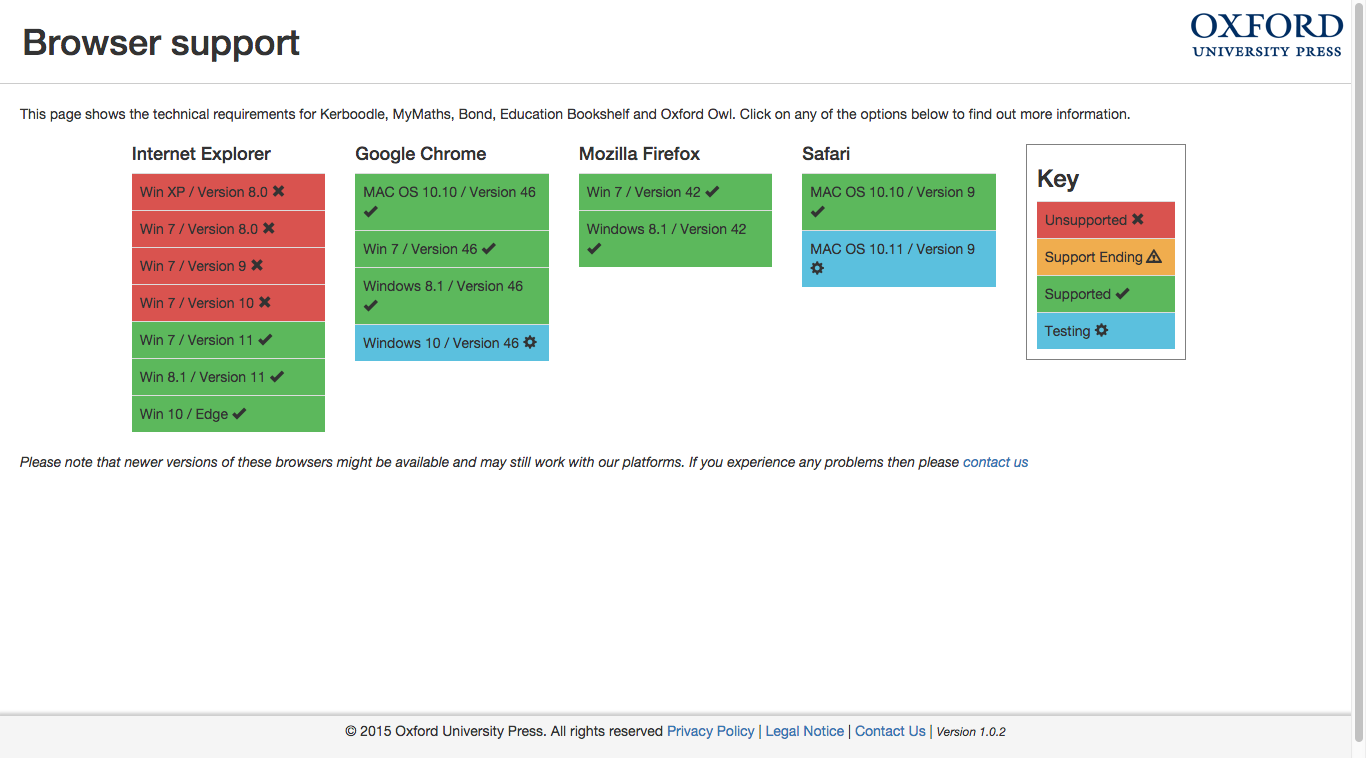
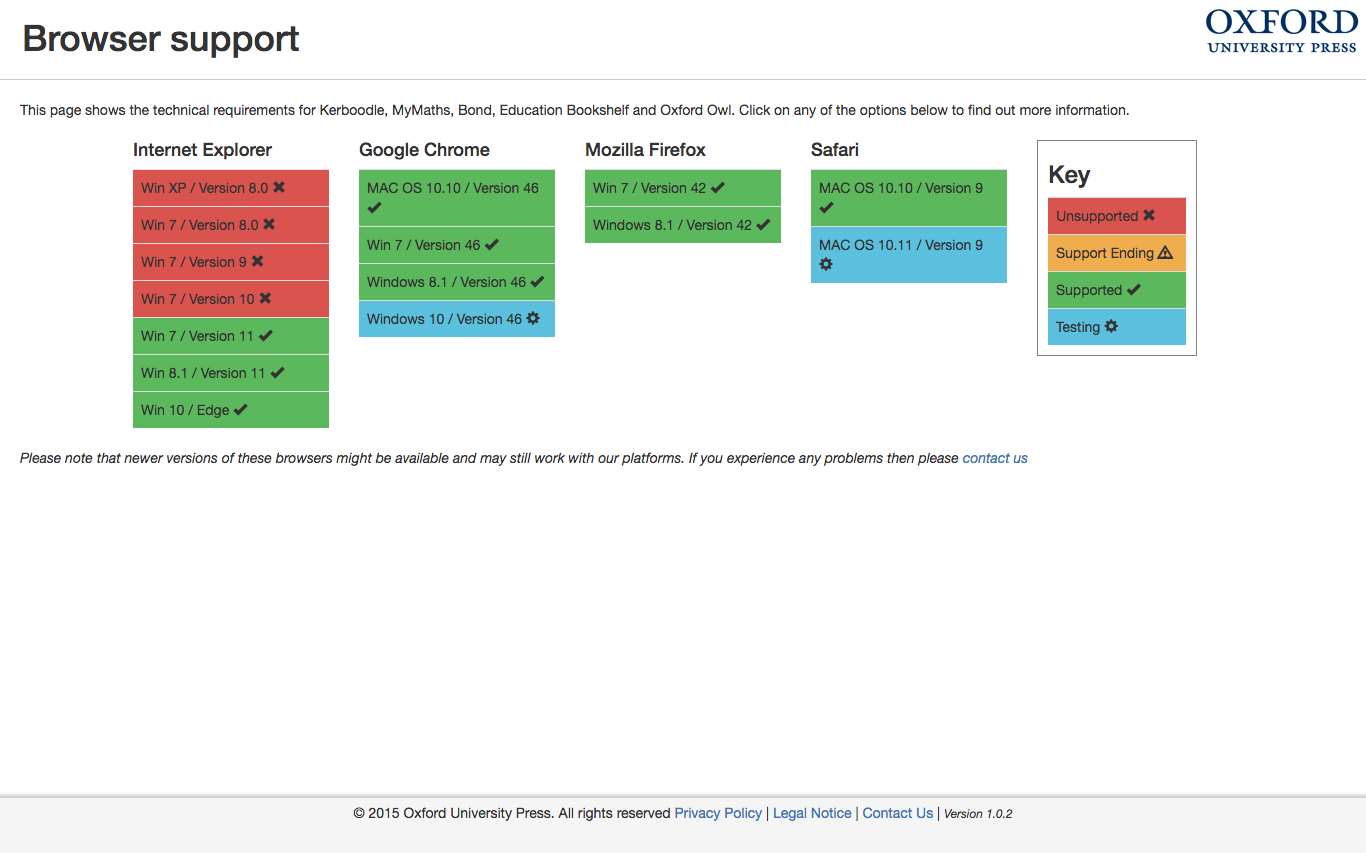
indented the main content, work on responsive header

diff --git a/_includes/header.html b/_includes/header.html
@@ -36,80 +36,86 @@
             .cls-6 {
               fill: #e6e7e8;
             }
+
           </style>
         </defs>
         <title>logo</title>
-        <path class="cls-1" d="M289.39,315.17" transform="translate(0 -0.02)" />
-        <path class="cls-1" d="M289.39,315.17" transform="translate(0 -0.02)" />
-        <path class="cls-1" d="M289.39,315.17" transform="translate(0 -0.02)" />
-        <path class="cls-1" d="M289.39,315.17" transform="translate(0 -0.02)" />
-        <path class="cls-1" d="M289.39,315.17" transform="translate(0 -0.02)" />
-        <path class="cls-1" d="M289.39,315.17" transform="translate(0 -0.02)" />
-        <path class="cls-2" d="M60.67,84.71" transform="translate(0 -0.02)" />
-        <path class="cls-1" d="M60.67,84.71" transform="translate(0 -0.02)" />
-        <path class="cls-2" d="M60.67,84.71" transform="translate(0 -0.02)" />
-        <path class="cls-1" d="M60.67,84.71" transform="translate(0 -0.02)" />
-        <path class="cls-2" d="M60.67,84.71" transform="translate(0 -0.02)" />
-        <path class="cls-1" d="M60.67,84.71" transform="translate(0 -0.02)" />
-        <path class="cls-2" d="M60.67,84.71" transform="translate(0 -0.02)" />
-        <path class="cls-1" d="M60.67,84.71" transform="translate(0 -0.02)" />
-        <path class="cls-2" d="M60.67,84.71" transform="translate(0 -0.02)" />
-        <path class="cls-1" d="M60.67,84.71" transform="translate(0 -0.02)" />
-        <path class="cls-2" d="M60.67,84.71" transform="translate(0 -0.02)" />
-        <path class="cls-1" d="M60.67,84.71" transform="translate(0 -0.02)" />
-        <path class="cls-1" d="M315.18,289.57" transform="translate(0 -0.02)" />
-        <path class="cls-1" d="M315.18,289.57" transform="translate(0 -0.02)" />
-        <path class="cls-1" d="M315.18,289.57" transform="translate(0 -0.02)" />
-        <path class="cls-1" d="M315.18,289.57" transform="translate(0 -0.02)" />
-        <path class="cls-1" d="M315.18,289.57" transform="translate(0 -0.02)" />
-        <path class="cls-1" d="M315.18,289.57" transform="translate(0 -0.02)" />
-        <path class="cls-2" d="M89.34,62.05" transform="translate(0 -0.02)" />
-        <path class="cls-1" d="M89.34,62.05" transform="translate(0 -0.02)" />
-        <path class="cls-2" d="M89.34,62.05" transform="translate(0 -0.02)" />
-        <path class="cls-1" d="M89.34,62.05" transform="translate(0 -0.02)" />
-        <path class="cls-2" d="M89.34,62.05" transform="translate(0 -0.02)" />
-        <path class="cls-1" d="M89.34,62.05" transform="translate(0 -0.02)" />
-        <path class="cls-2" d="M89.34,62.05" transform="translate(0 -0.02)" />
-        <path class="cls-1" d="M89.34,62.05" transform="translate(0 -0.02)" />
-        <path class="cls-2" d="M89.34,62.05" transform="translate(0 -0.02)" />
-        <path class="cls-1" d="M89.34,62.05" transform="translate(0 -0.02)" />
-        <path class="cls-2" d="M89.34,62.05" transform="translate(0 -0.02)" />
-        <path class="cls-1" d="M89.34,62.05" transform="translate(0 -0.02)" />
-        <polygon class="cls-3" points="2.44 185.92 1.74 138.44 47.2 183.14 1.72 229.74 2.44 185.92" />
-        <rect class="cls-4" x="15.01" y="105.91" width="65.19" height="63.91" transform="translate(-83.3 73.52) rotate(-44.78)" />
-        <rect class="cls-4" x="61.28" y="59.99" width="65.19" height="63.91" transform="translate(-37.52 92.79) rotate(-44.78)" />
-        <rect class="cls-4" x="107.75" y="14.52" width="63.91" height="63.91" transform="translate(7.8 111.87) rotate(-44.78)" />
-        <polygon class="cls-3" points="139.87 1.53 185.52 1.53 231.16 0.83 184.89 46.83 139.87 1.53" />
-        <rect class="cls-5" x="14.21" y="197.02" width="65.19" height="65.19" transform="translate(-148.15 99.58) rotate(-44.78)" />
-        <rect class="cls-6" x="60.48" y="151.09" width="65.19" height="65.19" transform="translate(-102.38 118.84) rotate(-44.78)" />
-        <rect class="cls-6" x="106.76" y="105.17" width="65.19" height="65.19" transform="translate(-56.6 138.12) rotate(-44.78)" />
-        <rect class="cls-6" x="153.22" y="59.7" width="63.91" height="65.19" transform="translate(-11.28 157.2) rotate(-44.78)" />
-        <rect class="cls-5" x="198.4" y="14.23" width="65.19" height="65.19" transform="translate(34.05 176.28) rotate(-44.78)" />
-        <rect class="cls-5" x="60.13" y="243.29" width="65.19" height="65.19" transform="translate(-167.42 145.36) rotate(-44.78)" />
-        <rect class="cls-6" x="106.4" y="197.37" width="65.19" height="65.19" transform="translate(-121.65 164.62) rotate(-44.78)" />
-        <rect class="cls-6" x="152.68" y="151.44" width="65.19" height="65.19" transform="translate(-75.87 183.89) rotate(-44.78)" />
-        <rect class="cls-6" x="199.14" y="105.97" width="63.91" height="65.19" transform="translate(-30.55 202.98) rotate(-44.78)" />
-        <rect class="cls-5" x="244.33" y="60.5" width="65.19" height="65.19" transform="translate(14.78 222.06) rotate(-44.78)" />
-        <rect class="cls-5" x="106.05" y="289.57" width="65.19" height="65.19" transform="translate(-186.7 191.13) rotate(-44.78)" />
-        <rect class="cls-6" x="152.33" y="243.65" width="65.19" height="65.19" transform="translate(-140.92 210.4) rotate(-44.78)" />
-        <rect class="cls-6" x="198.61" y="197.72" width="65.19" height="65.19" transform="translate(-95.14 229.67) rotate(-44.78)" />
-        <rect class="cls-6" x="245.06" y="152.25" width="63.91" height="65.19" transform="translate(-49.82 248.75) rotate(-44.78)" />
-        <rect class="cls-5" x="290.25" y="106.77" width="65.19" height="65.19" transform="translate(-4.49 267.83) rotate(-44.78)" />
-        <polygon class="cls-3" points="138.47 368.2 184.75 322.27 230.67 368.53 184.57 368.53 138.47 368.2" />
-        <rect class="cls-4" x="198.25" y="289.92" width="65.19" height="65.19" transform="translate(-160.19 256.18) rotate(-44.78)" />
-        <rect class="cls-4" x="244.53" y="244" width="65.19" height="65.19" transform="translate(-114.41 275.45) rotate(-44.78)" />
-        <rect class="cls-4" x="290.99" y="198.53" width="63.91" height="65.19" transform="translate(-69.09 294.53) rotate(-44.78)" />
-        <polygon class="cls-3" points="322.9 185.43 369.41 139.51 369.41 185.6 368.94 231.7 322.9 185.43" />
+        <path class="cls-1" d="M289.39,315.17" transform="translate(0 -0.02)"/>
+        <path class="cls-1" d="M289.39,315.17" transform="translate(0 -0.02)"/>
+        <path class="cls-1" d="M289.39,315.17" transform="translate(0 -0.02)"/>
+        <path class="cls-1" d="M289.39,315.17" transform="translate(0 -0.02)"/>
+        <path class="cls-1" d="M289.39,315.17" transform="translate(0 -0.02)"/>
+        <path class="cls-1" d="M289.39,315.17" transform="translate(0 -0.02)"/>
+        <path class="cls-2" d="M60.67,84.71" transform="translate(0 -0.02)"/>
+        <path class="cls-1" d="M60.67,84.71" transform="translate(0 -0.02)"/>
+        <path class="cls-2" d="M60.67,84.71" transform="translate(0 -0.02)"/>
+        <path class="cls-1" d="M60.67,84.71" transform="translate(0 -0.02)"/>
+        <path class="cls-2" d="M60.67,84.71" transform="translate(0 -0.02)"/>
+        <path class="cls-1" d="M60.67,84.71" transform="translate(0 -0.02)"/>
+        <path class="cls-2" d="M60.67,84.71" transform="translate(0 -0.02)"/>
+        <path class="cls-1" d="M60.67,84.71" transform="translate(0 -0.02)"/>
+        <path class="cls-2" d="M60.67,84.71" transform="translate(0 -0.02)"/>
+        <path class="cls-1" d="M60.67,84.71" transform="translate(0 -0.02)"/>
+        <path class="cls-2" d="M60.67,84.71" transform="translate(0 -0.02)"/>
+        <path class="cls-1" d="M60.67,84.71" transform="translate(0 -0.02)"/>
+        <path class="cls-1" d="M315.18,289.57" transform="translate(0 -0.02)"/>
+        <path class="cls-1" d="M315.18,289.57" transform="translate(0 -0.02)"/>
+        <path class="cls-1" d="M315.18,289.57" transform="translate(0 -0.02)"/>
+        <path class="cls-1" d="M315.18,289.57" transform="translate(0 -0.02)"/>
+        <path class="cls-1" d="M315.18,289.57" transform="translate(0 -0.02)"/>
+        <path class="cls-1" d="M315.18,289.57" transform="translate(0 -0.02)"/>
+        <path class="cls-2" d="M89.34,62.05" transform="translate(0 -0.02)"/>
+        <path class="cls-1" d="M89.34,62.05" transform="translate(0 -0.02)"/>
+        <path class="cls-2" d="M89.34,62.05" transform="translate(0 -0.02)"/>
+        <path class="cls-1" d="M89.34,62.05" transform="translate(0 -0.02)"/>
+        <path class="cls-2" d="M89.34,62.05" transform="translate(0 -0.02)"/>
+        <path class="cls-1" d="M89.34,62.05" transform="translate(0 -0.02)"/>
+        <path class="cls-2" d="M89.34,62.05" transform="translate(0 -0.02)"/>
+        <path class="cls-1" d="M89.34,62.05" transform="translate(0 -0.02)"/>
+        <path class="cls-2" d="M89.34,62.05" transform="translate(0 -0.02)"/>
+        <path class="cls-1" d="M89.34,62.05" transform="translate(0 -0.02)"/>
+        <path class="cls-2" d="M89.34,62.05" transform="translate(0 -0.02)"/>
+        <path class="cls-1" d="M89.34,62.05" transform="translate(0 -0.02)"/>
+        <polygon class="cls-3" points="2.44 185.92 1.74 138.44 47.2 183.14 1.72 229.74 2.44 185.92"/>
+        <rect class="cls-4" x="15.01" y="105.91" width="65.19" height="63.91" transform="translate(-83.3 73.52) rotate(-44.78)"/>
+        <rect class="cls-4" x="61.28" y="59.99" width="65.19" height="63.91" transform="translate(-37.52 92.79) rotate(-44.78)"/>
+        <rect class="cls-4" x="107.75" y="14.52" width="63.91" height="63.91" transform="translate(7.8 111.87) rotate(-44.78)"/>
+        <polygon class="cls-3" points="139.87 1.53 185.52 1.53 231.16 0.83 184.89 46.83 139.87 1.53"/>
+        <rect class="cls-5" x="14.21" y="197.02" width="65.19" height="65.19" transform="translate(-148.15 99.58) rotate(-44.78)"/>
+        <rect class="cls-6" x="60.48" y="151.09" width="65.19" height="65.19" transform="translate(-102.38 118.84) rotate(-44.78)"/>
+        <rect class="cls-6" x="106.76" y="105.17" width="65.19" height="65.19" transform="translate(-56.6 138.12) rotate(-44.78)"/>
+        <rect class="cls-6" x="153.22" y="59.7" width="63.91" height="65.19" transform="translate(-11.28 157.2) rotate(-44.78)"/>
+        <rect class="cls-5" x="198.4" y="14.23" width="65.19" height="65.19" transform="translate(34.05 176.28) rotate(-44.78)"/>
+        <rect class="cls-5" x="60.13" y="243.29" width="65.19" height="65.19" transform="translate(-167.42 145.36) rotate(-44.78)"/>
+        <rect class="cls-6" x="106.4" y="197.37" width="65.19" height="65.19" transform="translate(-121.65 164.62) rotate(-44.78)"/>
+        <rect class="cls-6" x="152.68" y="151.44" width="65.19" height="65.19" transform="translate(-75.87 183.89) rotate(-44.78)"/>
+        <rect class="cls-6" x="199.14" y="105.97" width="63.91" height="65.19" transform="translate(-30.55 202.98) rotate(-44.78)"/>
+        <rect class="cls-5" x="244.33" y="60.5" width="65.19" height="65.19" transform="translate(14.78 222.06) rotate(-44.78)"/>
+        <rect class="cls-5" x="106.05" y="289.57" width="65.19" height="65.19" transform="translate(-186.7 191.13) rotate(-44.78)"/>
+        <rect class="cls-6" x="152.33" y="243.65" width="65.19" height="65.19" transform="translate(-140.92 210.4) rotate(-44.78)"/>
+        <rect class="cls-6" x="198.61" y="197.72" width="65.19" height="65.19" transform="translate(-95.14 229.67) rotate(-44.78)"/>
+        <rect class="cls-6" x="245.06" y="152.25" width="63.91" height="65.19" transform="translate(-49.82 248.75) rotate(-44.78)"/>
+        <rect class="cls-5" x="290.25" y="106.77" width="65.19" height="65.19" transform="translate(-4.49 267.83) rotate(-44.78)"/>
+        <polygon class="cls-3" points="138.47 368.2 184.75 322.27 230.67 368.53 184.57 368.53 138.47 368.2"/>
+        <rect class="cls-4" x="198.25" y="289.92" width="65.19" height="65.19" transform="translate(-160.19 256.18) rotate(-44.78)"/>
+        <rect class="cls-4" x="244.53" y="244" width="65.19" height="65.19" transform="translate(-114.41 275.45) rotate(-44.78)"/>
+        <rect class="cls-4" x="290.99" y="198.53" width="63.91" height="65.19" transform="translate(-69.09 294.53) rotate(-44.78)"/>
+        <polygon class="cls-3" points="322.9 185.43 369.41 139.51 369.41 185.6 368.94 231.7 322.9 185.43"/>
       </svg>
-      <h1>Project Responsive</h1>
+      <h1 class="branding-title">Project Responsive</h1>
     </div>
 
     <div class="trigger perm">
       <button class="burger"></button>
       <ul class="fixed-top-nav">
-        {% assign pages = site.pages | sort:"weight" %} {% for my_page in pages %} {% if my_page.weight %}
-        <li id="{{my_page.title}}" class="perm"><a class="link {% if my_page.url == page.url %}active {% endif %}" href="{{ my_page.url | prepend: site.baseurl }}">{{ my_page.title }}</a></li>
-        {% endif %} {% endfor %}
+        {% assign pages = site.pages | sort : "weight" %}
+        {% for my_page in pages %}
+          {% if my_page.weight %}
+            <li id="{{my_page.title}}" class="perm">
+              <a class="link {% if my_page.url == page.url %}active {% endif %}" href="{{ my_page.url | prepend: site.baseurl }}">{{ my_page.title }}</a>
+            </li>
+          {% endif %}
+        {% endfor %}
       </ul>
     </div>
   </div>

diff --git a/_includes/head.html b/_includes/head.html
@@ -4,8 +4,6 @@
   <meta name="viewport" content="width=device-width, initial-scale=1">
   <title>{% if page.title %}{{ page.title }}{% else %}{{ site.title }}{% endif %}</title>
   <meta name="description" content="{% if page.excerpt %}{{ page.excerpt | strip_html | strip_newlines | truncate: 160 }}{% else %}{{ site.description }}{% endif %}">
-  <script src="https://code.jquery.com/jquery-2.2.2.min.js"   integrity="sha256-36cp2Co+/62rEAAYHLmRCPIych47CvdM+uTBJwSzWjI="   crossorigin="anonymous"></script>
-  <script src="{{ "/js/script.js" | prepend: site.baseurl }}"></script>
   <link rel="stylesheet" href="{{ "/css/main.css" | prepend: site.baseurl }}">
   <link rel="canonical" href="{{ page.url | replace:'index.html','' | prepend: site.baseurl | prepend: site.url }}">
   <link rel="alternate" type="application/rss+xml" title="{{ site.title }}" href="{{ "/feed.xml" | prepend: site.baseurl | prepend: site.url }}">

diff --git a/_sass/_animation.scss b/_sass/_animation.scss
@@ -59,6 +59,7 @@
 //burger icon
 // Burger menu button
 .burger {
+  height: $header-height;
   $width: 28px;
   $thickness: 4px;
   display: block;
@@ -67,10 +68,10 @@
   outline: 0;
   padding: 0;
   cursor: pointer;
-  border-bottom: $thickness solid currentColor;
   width: $width;
   transition: border-bottom 1s ease-in-out;
   -webkit-transition: border-bottom 1s ease-in-out;
+  float: right;
   // Fix for extra space in Firefox
   &::-moz-focus-inner {
     border: 0;
@@ -117,24 +118,3 @@
     display: none;
   }
 }
-// * * * Demo * * *
-/* body {
-  background-color: rosybrown;
-  text-align: center;
-  font-family: 'Cutive Mono', ;
-  color: white;
-  line-height: 25px;
-}
-
-a {
-  color: inherit;
-}
-
-.burger {
-  color: white;
-}
-
-small {
-  font-size: 10px;
-}
- */

diff --git a/_layouts/project.html b/_layouts/project.html
@@ -4,7 +4,7 @@ layout: default
 
     <h2 class="post-title" itemprop="name headline">{{ page.title }}</h2>
     <p class="post-meta"><time datetime="{{ page.date | date_to_xmlschema }}" itemprop="datePublished">{{ page.date | date: "%b %-d, %Y" }}</time>{% if page.author %} • <span itemprop="author" itemscope itemtype="http://schema.org/Person"><span itemprop="name">{{ page.author }}</span></span>{% endif %}</p>
-
+      <a href="./">back</a>
   <div class="post-content" itemprop="articleBody">
     {{ content }}
   </div>

diff --git a/_sass/_navigation.scss b/_sass/_navigation.scss
@@ -33,7 +33,10 @@ $high-tide: max-width 500px;
   height: $header-height;
   line-height: $header-height;
   font-family: $heading-font-family;
-  font-size: 1.2vw;
+  .branding-title {
+    display: none;
+  }
+
   white-space: nowrap;
   float: left;
   svg {
@@ -43,5 +46,10 @@ $high-tide: max-width 500px;
     line-height: $header-height;
     margin: 5px;
   }
-  @include breakpoint($high-tide) {}
+  @include breakpoint($mobile) {
+    .branding-title {
+        font-size: 2em;
+        display: block;
+    }
+  }
 }

diff --git a/_layouts/post.html b/_layouts/post.html
@@ -4,6 +4,7 @@ layout: default
 <article class="post" itemscope itemtype="http://schema.org/BlogPosting">
     <h2 class="post-title" itemprop="name headline">{{ page.title }}</h2>
     <p class="post-meta"><time datetime="{{ page.date | date_to_xmlschema }}" itemprop="datePublished">{{ page.date | date: "%b %-d, %Y" }}</time></p>
+    <a href="./">back</a>
 
   <div class="post-content" itemprop="articleBody">
     {{ content }}

diff --git a/_sass/_media.scss b/_sass/_media.scss
@@ -12,9 +12,17 @@
     perspective: 1000px;
   }
 }
+//full page container
 .container {
   @include container(90%);
 }
+
+//main
+main {
+  margin-left: 1em; 
+}
+
+
 .home-proj {
   img {
     border: 0.1em solid black;
@@ -62,6 +70,10 @@
 }
 .post-content {
   margin: 1em 0 0;
+  img {
+    height: 30%;
+    width: 30%;
+  }
 }
 .post-readmore {
   @extend .link;

diff --git a/_projects/2015-07-01-kerboodle-support-website.md b/_projects/2015-07-01-kerboodle-support-website.md
@@ -7,5 +7,22 @@ excerpt_separator: <!-- more -->
 permalink: '/projects/:path'
 ---
 ![Kerboodle Support Website]({{site.baseurl}}/images/kerboodle.png)<!-- more -->
-<p>I am a post la la la wooooooooo 1st</p>
-<p>I am a post la la la wooooooooo 2nd paragraphy</p>
+![Kerboodle Support Website]({{site.baseurl}}/images/kerboodle.png)
+
+### Description
+I was tasked with creating a support website for OUP online education platform ![Kerboodle Website](http://www.kerboodle.com) which caters for over a million users. I was pretty much given free reign over the design and the fuctionaility aspect of the project as it was something I was driving the business to build.
+
+I wanted the website to be responsive and most of all clear, lots of white space, not to much noise on each pages.
+
+I created a sidebar nav which responsively becomes a top nav when the browser resizes. 
+
+### Technology
+
+* SASS - This was my first project using this
+* Bootstrap -
+* GULP - I used gulp to process my SASS, Javscript, build a ENV workflow
+
+### Credit
+
+* Icons - Craig Farrell
+* Content and design - Lucy Huggett  

diff --git a/_projects/2015-12-10-browser-matrix.md b/_projects/2015-12-10-browser-matrix.md
@@ -7,5 +7,6 @@ excerpt_separator: <!-- more -->
 permalink: '/projects/:path'
 ---
 ![Browser Matrix]({{site.baseurl}}/images/browser-matrix.png)<!-- more -->
+![Browser Matrix]({{site.baseurl}}/images/responsive-browser-matrix.png)
 <p>I am a post la la la wooooooooo 1st</p>
 <p>I am a post la la la wooooooooo 2nd paragraphy</p>
